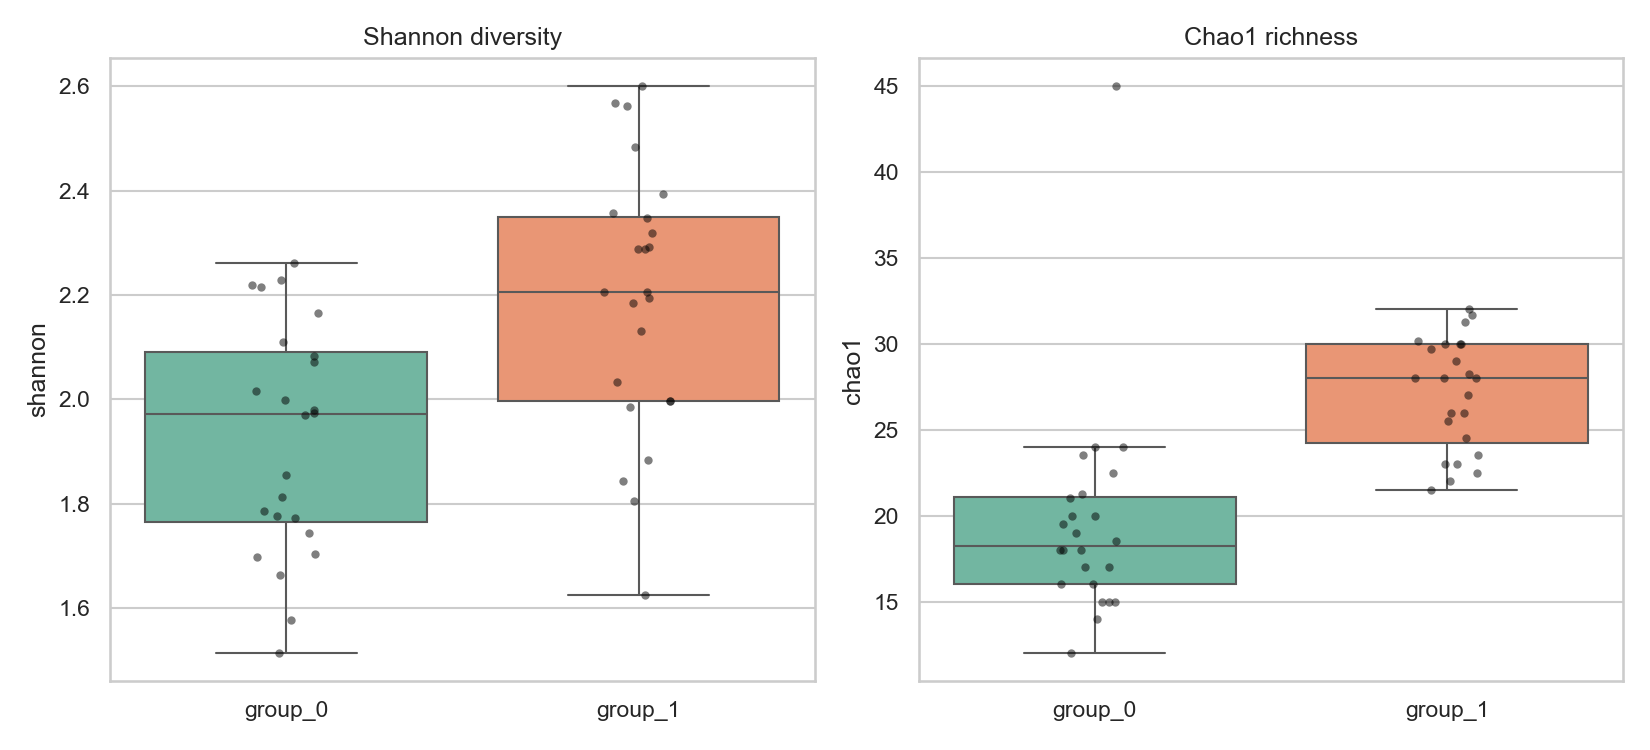
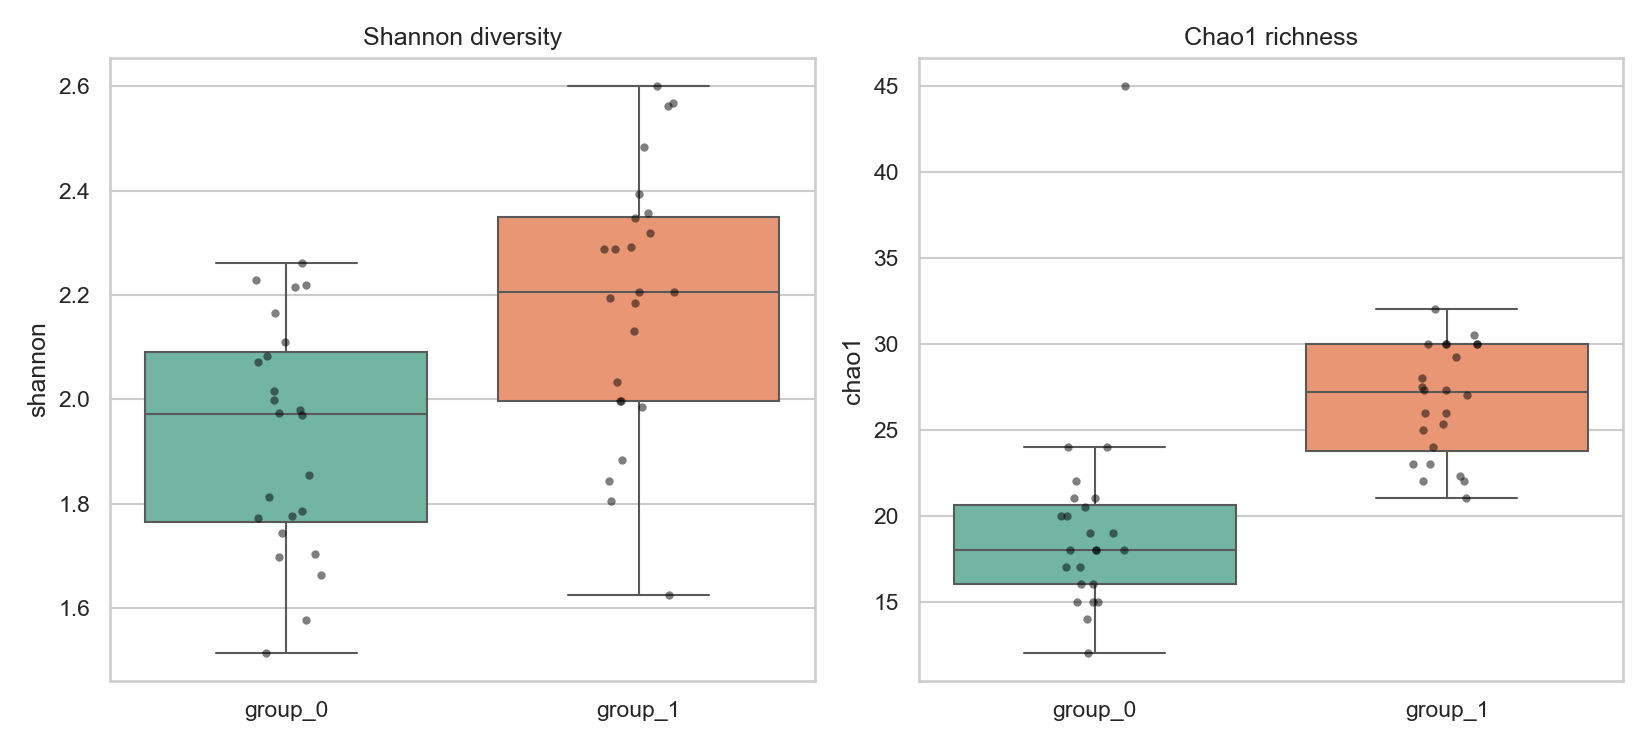
Rewrite alpha/beta diversity and PCoA on scikit-bio, add UniFrac
Replaces the hand-rolled Shannon/Simpson/Chao1/Bray-Curtis/Jaccard/PCoA
implementations with thin wrappers around skbio.diversity.alpha,
skbio.diversity.beta_diversity, and skbio.stats.ordination.pcoa -- the
same computations vegan::diversity()/vegdist()/wcmdscale() perform in R.
scikit-bio's defaults already match this package's existing conventions
(natural-log Shannon, 1-sum(p^2) Simpson, bias-corrected Chao1), so all
45 pre-existing tests pass unchanged except for scikit-bio returning NaN
(vs. this package's 0.0) for empty samples, handled in the wrapper.

Also adds weighted/unweighted UniFrac as new beta_diversity metrics
(requiring a phylogenetic tree), which the toolkit didn't support at all
before and which is the most-used 16S beta-diversity metric in published
microbiome work when a tree is available.

nmds() deliberately stays on sklearn.manifold.MDS -- scikit-bio has no
NMDS implementation, and MDS is the standard Python-side choice too.

diff --git a/src/amplicon_diversity/diversity/beta.py b/src/amplicon_diversity/diversity/beta.py
@@ -1,36 +1,46 @@
-"""Beta diversity: pairwise between-sample dissimilarity metrics."""
+"""Beta diversity: pairwise between-sample dissimilarity metrics.
+
+The single-pair convenience functions (``bray_curtis``, ``jaccard``) wrap
+``scipy.spatial.distance`` — the same primitives scikit-bio itself dispatches
+to for these metrics. The table-level ``beta_diversity`` wraps
+``skbio.diversity.beta_diversity``, the same computation ``vegan::vegdist()``
+performs in R, and is also what makes UniFrac available: unlike Bray-Curtis/
+Jaccard, UniFrac weights dissimilarity by how evolutionarily distinct the
+differing taxa are, which requires a phylogenetic tree relating the features
+(``tree=``) rather than the abundance table alone.
+"""
 from __future__ import annotations
 
-import numpy as np
 import pandas as pd
-from scipy.spatial.distance import squareform
+import skbio
+from scipy.spatial.distance import braycurtis as _braycurtis
+from scipy.spatial.distance import jaccard as _jaccard
 
 
-def bray_curtis(x: np.ndarray, y: np.ndarray) -> float:
+def bray_curtis(x, y) -> float:
     """Bray-Curtis dissimilarity: sum(|x_i - y_i|) / sum(x_i + y_i)."""
-    x = np.asarray(x, dtype=float)
-    y = np.asarray(y, dtype=float)
-    denom = np.sum(x + y)
-    if denom == 0:
-        return 0.0
-    return float(np.sum(np.abs(x - y)) / denom)
+    return float(_braycurtis(x, y))
 
 
-def jaccard(x: np.ndarray, y: np.ndarray) -> float:
+def jaccard(x, y) -> float:
     """Jaccard dissimilarity on presence/absence: 1 - |intersection| / |union|."""
-    x_present = np.asarray(x) > 0
-    y_present = np.asarray(y) > 0
-    union = np.sum(x_present | y_present)
-    if union == 0:
-        return 0.0
-    intersection = np.sum(x_present & y_present)
-    return float(1.0 - intersection / union)
+    return float(_jaccard(x, y))
 
 
-_METRICS = {"bray_curtis": bray_curtis, "jaccard": jaccard}
+_METRIC_NAMES = {
+    "bray_curtis": "braycurtis",
+    "jaccard": "jaccard",
+    "weighted_unifrac": "weighted_unifrac",
+    "unweighted_unifrac": "unweighted_unifrac",
+}
+_UNIFRAC_METRICS = {"weighted_unifrac", "unweighted_unifrac"}
 
 
-def beta_diversity(table: pd.DataFrame, metric: str = "bray_curtis") -> pd.DataFrame:
+def beta_diversity(
+    table: pd.DataFrame,
+    metric: str = "bray_curtis",
+    tree: skbio.TreeNode | None = None,
+) -> pd.DataFrame:
     """Compute a full samples x samples dissimilarity matrix.
 
     Parameters
@@ -38,22 +48,26 @@ def beta_diversity(table: pd.DataFrame, metric: str = "bray_curtis") -> pd.DataF
     table : DataFrame
         Samples as rows, features as columns, raw (or relative) abundances.
     metric : str
-        "bray_curtis" or "jaccard".
+        "bray_curtis", "jaccard", "weighted_unifrac", or "unweighted_unifrac".
+        The UniFrac metrics require ``tree``.
+    tree : skbio.TreeNode, optional
+        Phylogenetic tree relating the features (table columns) to tip names;
+        required for "weighted_unifrac"/"unweighted_unifrac".
 
     Returns
     -------
     DataFrame, shape (n_samples, n_samples), symmetric, zero diagonal.
     """
-    if metric not in _METRICS:
-        raise ValueError(f"unknown metric {metric!r}; choose from {sorted(_METRICS)}")
-    func = _METRICS[metric]
-    values = table.values
-    n = values.shape[0]
-    condensed = np.zeros(n * (n - 1) // 2)
-    k = 0
-    for i in range(n):
-        for j in range(i + 1, n):
-            condensed[k] = func(values[i], values[j])
-            k += 1
-    matrix = squareform(condensed)
-    return pd.DataFrame(matrix, index=table.index, columns=table.index)
+    if metric not in _METRIC_NAMES:
+        raise ValueError(f"unknown metric {metric!r}; choose from {sorted(_METRIC_NAMES)}")
+
+    kwargs = {}
+    if metric in _UNIFRAC_METRICS:
+        if tree is None:
+            raise ValueError(f"metric {metric!r} requires a phylogenetic tree (tree=...)")
+        kwargs = {"tree": tree, "taxa": table.columns.tolist()}
+
+    dm = skbio.diversity.beta_diversity(
+        _METRIC_NAMES[metric], table.values, ids=table.index.tolist(), **kwargs
+    )
+    return dm.to_data_frame()

diff --git a/src/amplicon_diversity/diversity/alpha.py b/src/amplicon_diversity/diversity/alpha.py
@@ -1,8 +1,21 @@
-"""Alpha diversity: within-sample community diversity metrics."""
+"""Alpha diversity: within-sample community diversity metrics.
+
+Thin wrappers around scikit-bio's ``skbio.diversity.alpha`` implementations —
+the same statistics ``vegan::diversity()`` / ``phyloseq::estimate_richness()``
+compute in R. scikit-bio's defaults already match the conventions used
+throughout this package (natural-log Shannon, ``1 - sum(p_i^2)`` Simpson,
+bias-corrected Chao1), so these wrappers exist to give a stable, table-aware
+API rather than to change the math. The one deliberate deviation: scikit-bio
+returns ``NaN`` for an empty (all-zero) sample, which this package treats as
+0 diversity instead — useful when a real table has samples that dropped to
+zero reads after QC filtering, since a ``NaN`` propagating into a groupby or
+boxplot is more disruptive than a defined zero.
+"""
 from __future__ import annotations
 
 import numpy as np
 import pandas as pd
+import skbio.diversity.alpha as skbio_alpha
 
 
 def _as_array(counts: np.ndarray | pd.Series) -> np.ndarray:
@@ -12,53 +25,37 @@ def _as_array(counts: np.ndarray | pd.Series) -> np.ndarray:
     return arr
 
 
-def shannon(counts: np.ndarray | pd.Series, base: float = np.e) -> float:
-    """Shannon entropy index H' = -sum(p_i * log(p_i))."""
-    arr = _as_array(counts)
-    total = arr.sum()
-    if total == 0:
-        return 0.0
-    p = arr[arr > 0] / total
-    return float(-np.sum(p * np.log(p)) / np.log(base))
+def _zero_safe(metric):
+    def wrapped(counts: np.ndarray | pd.Series) -> float:
+        arr = _as_array(counts)
+        if arr.sum() == 0:
+            return 0.0
+        return float(metric(arr))
+
+    return wrapped
 
 
-def simpson(counts: np.ndarray | pd.Series) -> float:
-    """Simpson's diversity index 1 - sum(p_i^2) (probability two random draws differ)."""
-    arr = _as_array(counts)
-    total = arr.sum()
-    if total == 0:
-        return 0.0
-    p = arr / total
-    return float(1.0 - np.sum(p**2))
+shannon = _zero_safe(skbio_alpha.shannon)
+"""Shannon entropy index H' = -sum(p_i * log(p_i)), natural log."""
 
+simpson = _zero_safe(skbio_alpha.simpson)
+"""Simpson's diversity index 1 - sum(p_i^2) (probability two random draws differ)."""
 
-def pielou_evenness(counts: np.ndarray | pd.Series) -> float:
-    """Pielou's evenness J = H' / log(S), the observed richness."""
-    arr = _as_array(counts)
-    s = observed_features(arr)
-    if s <= 1:
-        return 0.0
-    return float(shannon(arr) / np.log(s))
+pielou_evenness = _zero_safe(skbio_alpha.pielou_e)
+"""Pielou's evenness J = H' / log(S), the observed richness."""
 
 
 def observed_features(counts: np.ndarray | pd.Series) -> int:
     """Number of features with a nonzero count (observed richness)."""
-    arr = _as_array(counts)
-    return int(np.sum(arr > 0))
+    return int(skbio_alpha.observed_features(_as_array(counts)))
 
 
 def chao1(counts: np.ndarray | pd.Series) -> float:
-    """Chao1 richness estimator, correcting observed richness for unseen rare taxa.
-
-    Chao1 = S_obs + f1(f1-1) / (2*(f2+1)), where f1/f2 are the number of
-    singleton/doubleton features.
+    """Bias-corrected Chao1 richness estimator, correcting observed richness
+    for unseen rare taxa: S_obs + f1(f1-1) / (2*(f2+1)), where f1/f2 are the
+    number of singleton/doubleton features.
     """
-    arr = _as_array(counts)
-    s_obs = observed_features(arr)
-    f1 = np.sum(arr == 1)
-    f2 = np.sum(arr == 2)
-    correction = f1 * (f1 - 1) / (2.0 * (f2 + 1))
-    return float(s_obs + correction)
+    return _zero_safe(lambda arr: skbio_alpha.chao1(arr, bias_corrected=True))(counts)
 
 
 _METRICS = {

diff --git a/src/amplicon_diversity/diversity/ordination.py b/src/amplicon_diversity/diversity/ordination.py
@@ -3,11 +3,15 @@ from __future__ import annotations
 
 import numpy as np
 import pandas as pd
+import skbio
 from sklearn.manifold import MDS
 
 
 def pcoa(distance_matrix: pd.DataFrame, n_components: int = 2) -> tuple[pd.DataFrame, np.ndarray]:
     """Classical (metric) PCoA via eigendecomposition of the double-centered distance matrix.
+
+    Wraps ``skbio.stats.ordination.pcoa`` — the same computation
+    ``ape::pcoa()`` / ``vegan::wcmdscale()`` perform in R.
 
     Parameters
     ----------
@@ -23,26 +27,11 @@ def pcoa(distance_matrix: pd.DataFrame, n_components: int = 2) -> tuple[pd.DataF
     explained_variance_ratio : ndarray, shape (n_components,)
         Fraction of total (signed) eigenvalue sum explained by each axis.
     """
-    d = distance_matrix.values.astype(float)
-    n = d.shape[0]
-    d2 = d**2
-    centering = np.eye(n) - np.ones((n, n)) / n
-    b = -0.5 * centering @ d2 @ centering
-
-    eigvals, eigvecs = np.linalg.eigh(b)
-    order = np.argsort(eigvals)[::-1]
-    eigvals = eigvals[order]
-    eigvecs = eigvecs[:, order]
-
-    positive = np.clip(eigvals, 0, None)
-    total = positive.sum() if positive.sum() > 0 else 1.0
-    explained = positive[:n_components] / total
-
-    top_vals = np.clip(eigvals[:n_components], 0, None)
-    coords = eigvecs[:, :n_components] * np.sqrt(top_vals)
-    columns = [f"PC{i+1}" for i in range(n_components)]
-    coords_df = pd.DataFrame(coords, index=distance_matrix.index, columns=columns)
-    return coords_df, explained
+    dm = skbio.DistanceMatrix(distance_matrix.values, ids=distance_matrix.index.tolist())
+    result = skbio.stats.ordination.pcoa(dm, dimensions=n_components)
+    coords = result.samples.loc[distance_matrix.index]
+    explained = result.proportion_explained.values
+    return coords, explained
 
 
 def nmds(
@@ -53,6 +42,10 @@ def nmds(
     max_iter: int = 300,
 ) -> tuple[pd.DataFrame, float]:
     """Non-metric multidimensional scaling (NMDS) of a distance matrix.
+
+    Uses ``sklearn.manifold.MDS`` deliberately, not a scikit-bio equivalent —
+    scikit-bio doesn't implement NMDS, and ``scikit-learn``'s MDS (metric=False)
+    is the standard Python-side stand-in for ``vegan::metaMDS()``.
 
     Returns
     -------

diff --git a/tests/test_beta_ordination.py b/tests/test_beta_ordination.py
@@ -1,5 +1,9 @@
+import io
+
 import numpy as np
+import pandas as pd
 import pytest
+import skbio
 
 from amplicon_diversity.diversity import beta_diversity, bray_curtis, jaccard, nmds, pcoa
 
@@ -55,3 +59,28 @@ def test_nmds_returns_valid_stress(amplicon_data):
     coords, stress = nmds(dist, n_components=2, n_init=2, max_iter=100)
     assert coords.shape == (counts.shape[0], 2)
     assert stress >= 0
+
+
+def test_beta_diversity_rejects_unknown_metric(amplicon_data):
+    counts, _ = amplicon_data
+    with pytest.raises(ValueError):
+        beta_diversity(counts, metric="not_a_metric")
+
+
+def test_beta_diversity_unifrac_requires_tree(amplicon_data):
+    counts, _ = amplicon_data
+    with pytest.raises(ValueError):
+        beta_diversity(counts, metric="weighted_unifrac")
+
+
+def test_beta_diversity_weighted_unifrac_is_symmetric_with_zero_diagonal():
+    tree = skbio.TreeNode.read(io.StringIO("((f1:1,f2:1):1,(f3:1,f4:1):1);"))
+    table = pd.DataFrame(
+        [[10, 0, 5, 0], [0, 10, 0, 5], [5, 5, 5, 5]],
+        index=["s1", "s2", "s3"],
+        columns=["f1", "f2", "f3", "f4"],
+    )
+    dist = beta_diversity(table, metric="weighted_unifrac", tree=tree)
+    assert dist.shape == (3, 3)
+    np.testing.assert_allclose(dist.values, dist.values.T, atol=1e-10)
+    np.testing.assert_allclose(np.diag(dist.values), 0.0, atol=1e-10)
